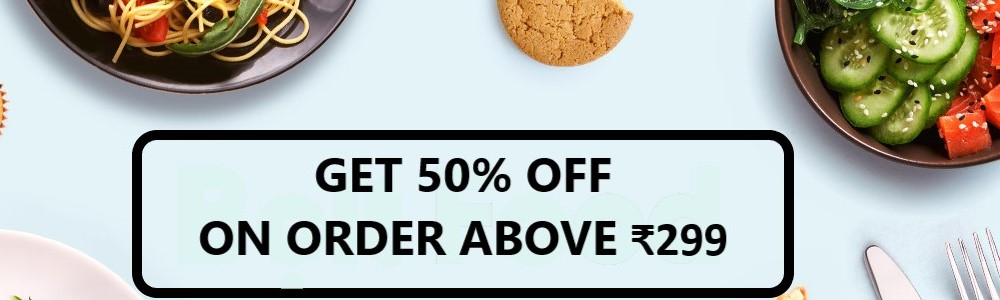
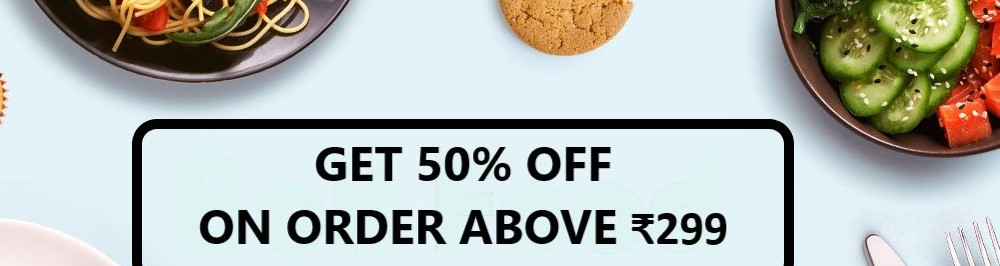
Dark Background image added

diff --git a/HTML/Home.html b/HTML/Home.html
@@ -23,7 +23,7 @@
 </head>
 
 <body>
-  <nav class="navbar navbar-expand-lg navbar-dark bg-dark">
+  <nav class="navbar navbar-expand-lg navbar-dark bg-transparent">
     <a class="navbar-brand" href="#"><img id="logo" src="../Images/logo.jpg" alt=""></a>
     <button class="navbar-toggler" type="button" data-toggle="collapse" data-target="#navbarSupportedContent"
       aria-controls="navbarSupportedContent" aria-expanded="false" aria-label="Toggle navigation">
@@ -181,6 +181,7 @@
   </nav>
 
   <!-- Carousel {Start}-->
+  <div id="crlContainer" class="container">
   <div id="carouselExampleIndicators" class="carousel slide" data-ride="carousel">
     <ol class="carousel-indicators">
       <li data-target="#carouselExampleIndicators" data-slide-to="0" class="active"></li>
@@ -207,6 +208,7 @@
       <span class="sr-only">Next</span>
     </a>
   </div>
+</div>
   <!-- Carousel{End} -->
   <!--Whatsapp Support-->
   <a href="https://api.whatsapp.com/send?phone=919328681205&text=I Want to Order Food." class="float" target="_blank">

diff --git a/CSS/style.css b/CSS/style.css
@@ -2,6 +2,9 @@
     margin : 0;
     padding : 0;
 }
+body{
+  background: url(../Images/background.jpg) fixed;
+}
 
 #logo{
     width: 60px;
@@ -150,3 +153,8 @@ margin-top:16px;
 }
 
   /* Whatsapp Support */
+
+  /* Carousel Container */
+  #crlContainer{
+    margin: 8px auto;
+  }
